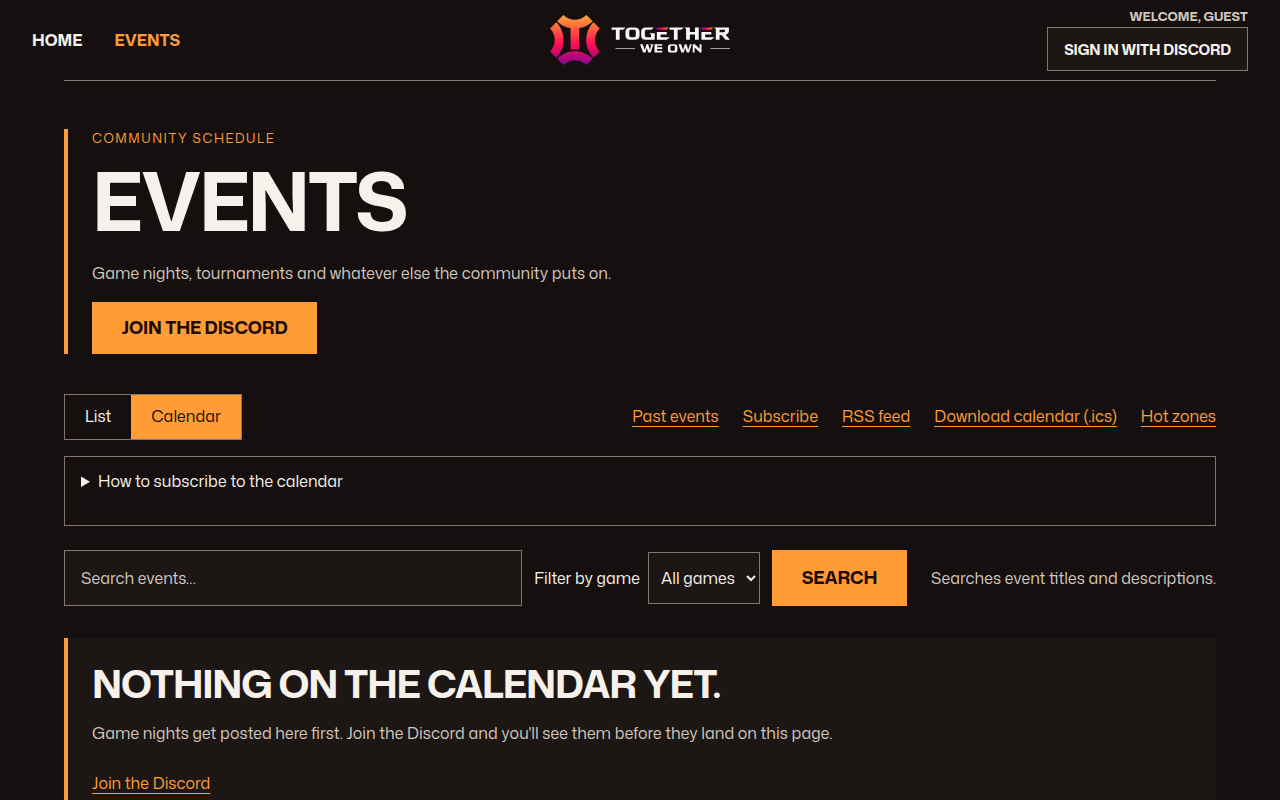
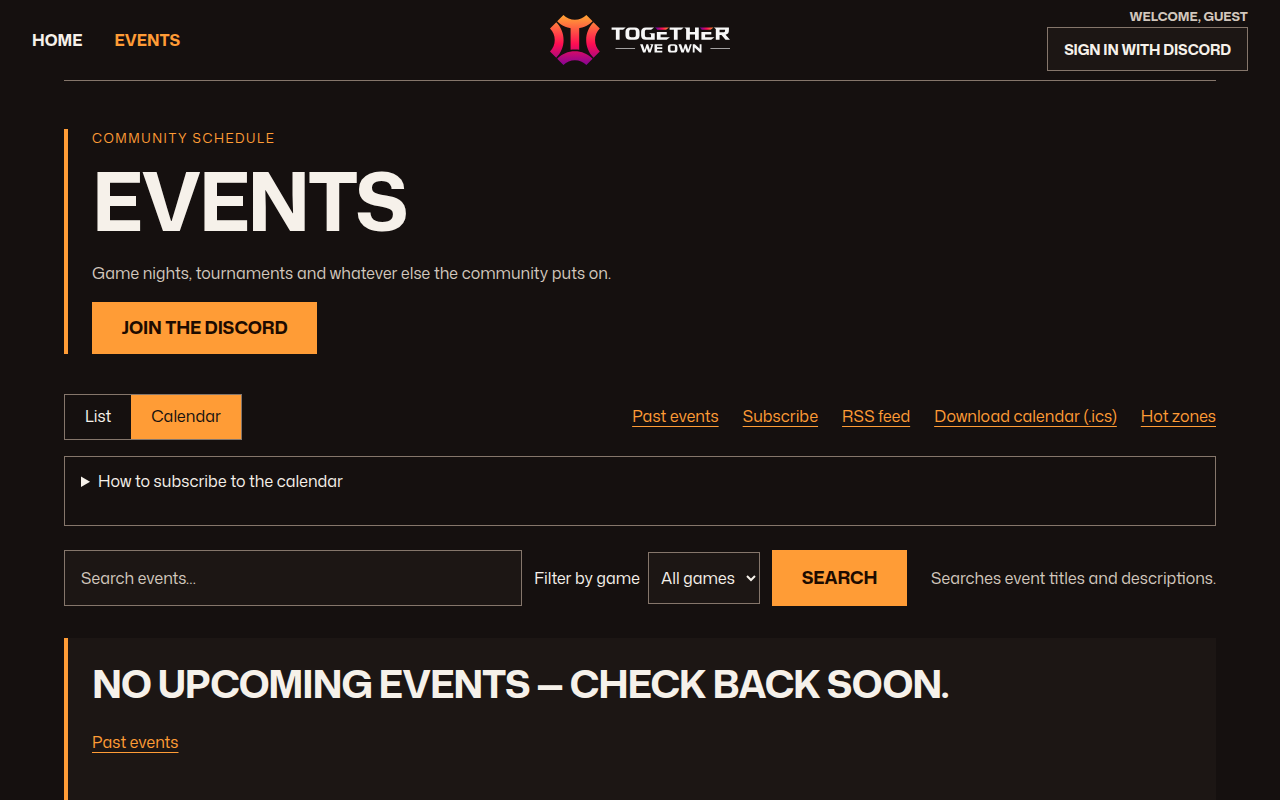
fix(events): avoid an archive shortcut for unreadable history
Paperclip-Agent: 617a088e-1650-4d09-b0b3-328b7da91e7e
Paperclip-Run: 8373a3c7-e45c-4c83-9225-7e0fc001b994

Changed region(s): [[0.125, 0.8125, 0.75, 0.875], [0.0625, 0.9062, 0.6562, 0.9375], [0.0625, 0.9688, 0.1562, 1.0]]

diff --git a/test/calendar-upcoming-paging.test.ts b/test/calendar-upcoming-paging.test.ts
@@ -440,6 +440,8 @@ describe.skipIf(!url)("upcoming list paging (isolated test DB)", () => {
     const fixture = await createMemberDataFixture(url!, { max: 2 });
     const { client, db } = fixture;
     const path = "/events?view=calendar&month=2060-06";
+    vi.useFakeTimers({ toFake: ["Date"] });
+    vi.setSystemTime(new Date("2060-06-30T23:55:00Z"));
     try {
       for (const html of await calendarTwins(db, path)) {
         expect(html).toContain('data-testid="events-empty-never"');
@@ -450,13 +452,24 @@ describe.skipIf(!url)("upcoming list paging (isolated test DB)", () => {
       for (const url of [path, "/events"]) {
         for (const html of await calendarTwins(db, url)) {
           expect(html).not.toContain('data-testid="events-empty-never"');
-          expect(html).toContain('data-testid="events-empty-gap"');
+          const gap = html.match(/data-testid="events-empty-gap">(.*?)<\/div>/s)?.[1];
+          expect(gap).toBeDefined();
           expect(html).not.toContain('data-testid="events-empty-gap-list"');
-          expect(html).toContain('href="/events/past"');
+          expect(html).toContain('href="/events/past" data-testid="events-past-archive-link"');
+          expect(gap).not.toContain('href="/events/past"');
           expect(html).not.toContain("June past import");
         }
       }
+      await client`insert into events (event_key, title, starts_at, ends_at, timezone, status)
+        values ('past-readable', 'Readable past event', '2060-06-19T22:00:00Z',
+          '2060-06-19T23:00:00Z', 'UTC', 'past')`;
+      for (const html of await calendarTwins(db, path)) {
+        const gap = html.match(/data-testid="events-empty-gap">(.*?)<\/div>/s)?.[1];
+        expect(gap).toContain("Readable past event");
+        expect(gap).toContain('href="/events/past"');
+      }
     } finally {
+      vi.useRealTimers();
       await fixture.dispose();
     }
   });

diff --git a/src/events/pages-calendar-empty.tsx b/src/events/pages-calendar-empty.tsx
@@ -55,11 +55,11 @@ export const EmptyGap: FC<{ past: PublicEvent[]; zone: string }> = ({ past, zone
             </li>
           ))}
         </ul>
+        <p>
+          <a href="/events/past">{EVENTS_EMPTY_COPY.pastArchive}</a>
+        </p>
       </>
     ) : null}
-    <p>
-      <a href="/events/past">{EVENTS_EMPTY_COPY.pastArchive}</a>
-    </p>
   </div>
 );
 
